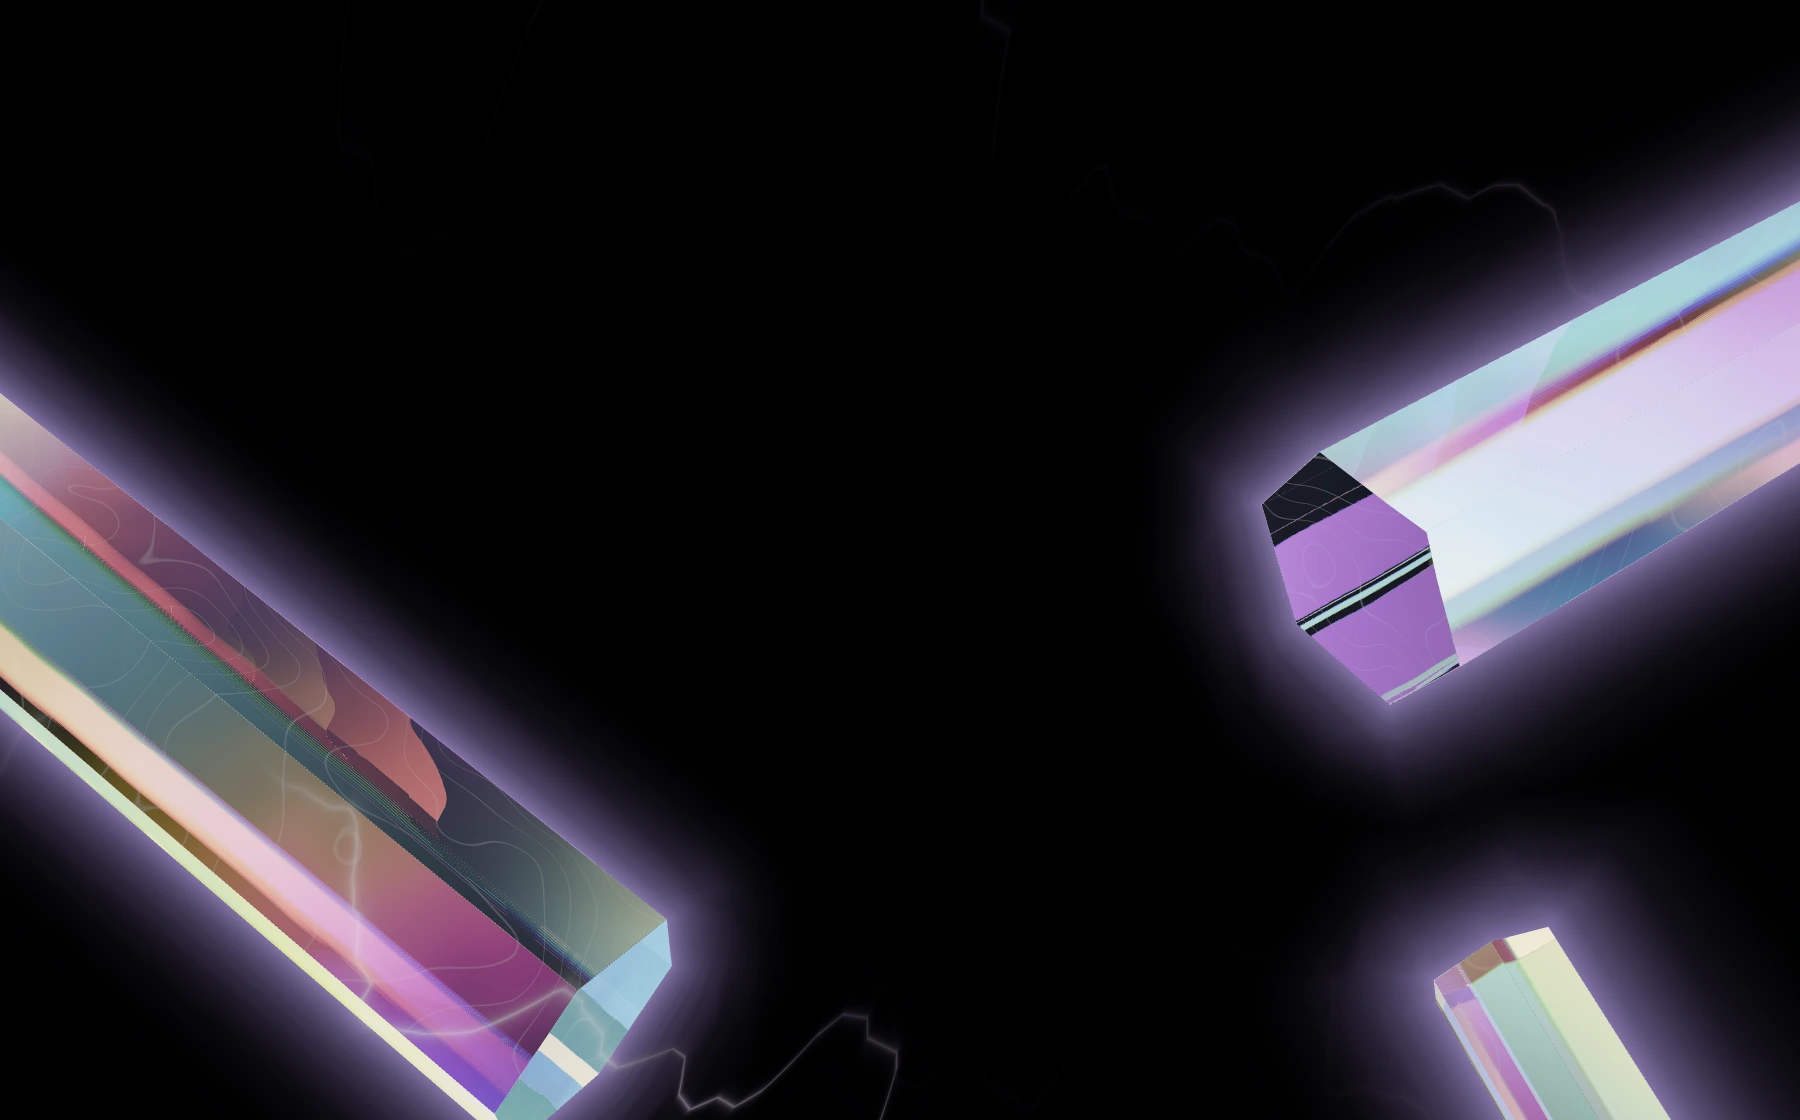
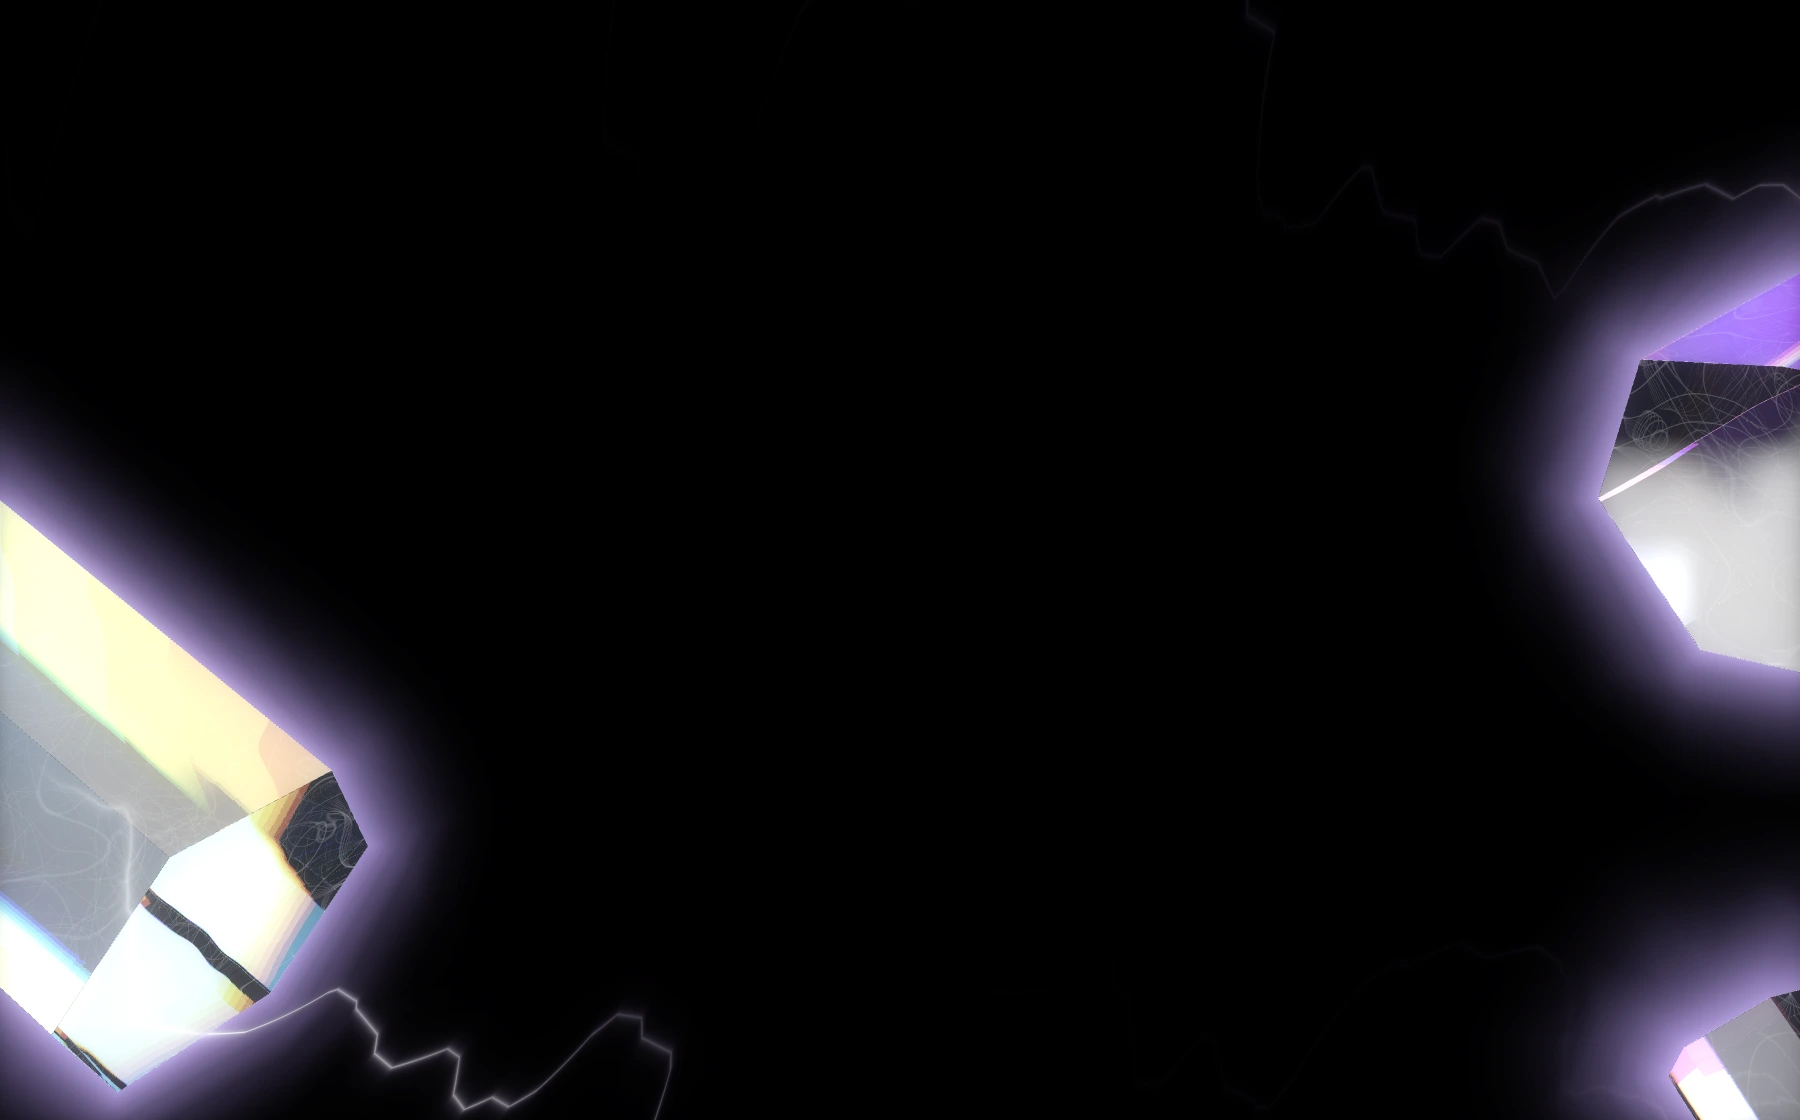
קריסטלים: תאורת סטודיו במקום מקורות נקודתיים
התובנה: ההבדל מהרפרנס היה בתאורה ולא בגביש. פאה שמשקפת
סופטבוקס מלבני נותנת כתם לבן עם גבול חד, ובגבול הזה הפיזור
מפריד את הצבעים. מקורות נקודתיים נתנו כתמים רכים ומראה פלסטי.

- rectLight: אור מלבני עם קצה חד
- פרופורציה עבה יותר, כמו ברפרנס
- רשת שברים פנימית שנמדדת לאורך מסלול הקרן בזכוכית
- bloom דו-שכבתי בפוסט על קנבס 2D
- הגבישים הורחקו לקצוות כדי לא לדחוק את הכותרת

diff --git a/log.md b/log.md
@@ -86,3 +86,23 @@
 2. **`object-fit:cover` הגדיל את הגבישים** — תמונה ביחס 2.29 בתוך hero ביחס 1.73 נחתכת לרוחב ומתקרבת. תוקן בשניים: רנדר מחדש ביחס 1.6 (כך שהחיתוך אנכי ולא אופקי, וההרכב האופקי נשמר), ו**שכבת החשכה רדיאלית** מעל התמונה שמבטיחה קריאות בכל יחס מסך.
 
 **כלי:** `render.js` בסקרצ'פאד מייצר את התמונות. `node render.js <W> <H> <tile>` ואז Chrome headless עם `--use-angle=d3d11`. המיקומים תלויי-יחס, אז אותו שיידר מייצר גם רחב וגם לאורך.
+
+## 2026-08-06 — הקריסטלים נבנו מחדש: תאורת סטודיו
+
+הלקוח דחה שוב ("אני לא אחזור על זה שוב"). במקום לכוונן עוד פרמטרים, ניתחתי **למה** הרפרנס נראה אחרת.
+
+### 🔑 התובנה: ההבדל היה בתאורה, לא בגביש
+הגבישים ברפרנס משקפים **סופטבוקסים מלבניים של סטודיו**. פאה שטוחה שמשקפת מלבן נותנת **כתם לבן גדול עם גבול חד** — ובגבול הזה הפיזור מפריד את הצבעים לקשת. אצלי היו `pow(dot(d,dir), N)` — מקורות נקודתיים שנותנים כתמים רכים ומרוחים, ולכן המראה יצא פלסטי.
+
+`rectLight()` מקרין את הכיוון על מישור האור ומחיל `smoothstep` על שתי הצירים → מלבן עם קצה חד.
+⚠ **כיול:** אור מלבני מכסה זווית מרחבית גדולה בהרבה ממקור נקודתי. העברתי את העוצמות כמו שהן והתמונה יצאה לבנה לגמרי. הירידה: 70→13, 52→9.5.
+
+### עוד שלושה שינויים שנדרשו
+- **פרופורציה עבה** — 2.10/0.86 במקום 2.95/0.60. הרפרנס מציג גבישים חסונים, לא מקלות
+- **רשת שברים פנימית** — `crackField` (מינימום של שלושה מישורי סינוס מעוותים ברעש), מוערך כאינטגרל לאורך מסלול הקרן בזכוכית. ⚠ סף 0.075 נתן קורי עכביש; 0.020 נתן את הרשת העדינה של הרפרנס
+- **Bloom דו-שכבתי בפוסט** — שתי מריחות (26px ו-7px) ב-`globalCompositeOperation='lighter'` על קנבס 2D. **זה מה שנותן את תחושת הרנדר היקר**, וזה עולה כלום כי הוא נאפה לתמונה
+
+### כיול הרכב
+הגבישים העבים תפסו יותר מדי מהמסגרת. `ax()` מ-2.48 ל-3.18 מכפיל יחס המסך → הם יושבים בקצוות וזולגים החוצה, כמו ברפרנס.
+
+**תוצאה:** 49KB רחב · 57KB לאורך. טעינה ראשונה ~161KB דסקטופ.
